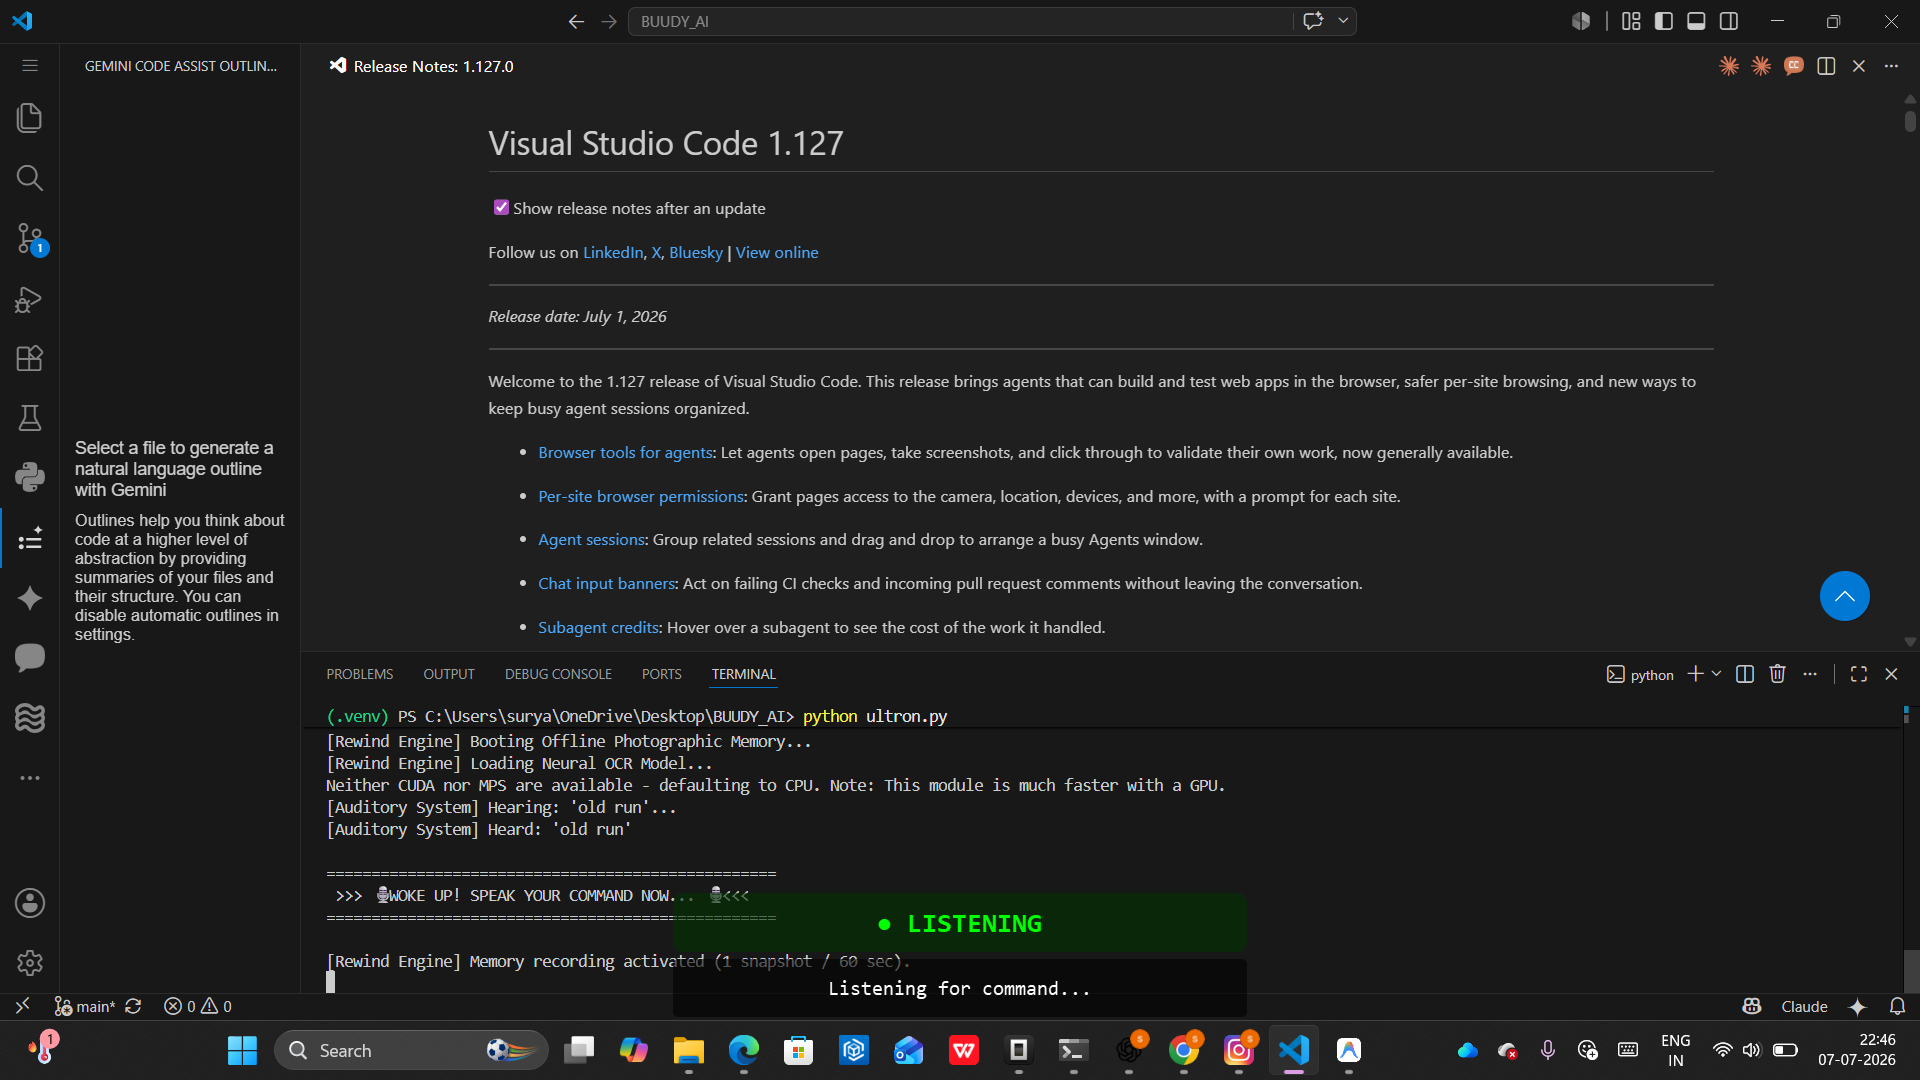
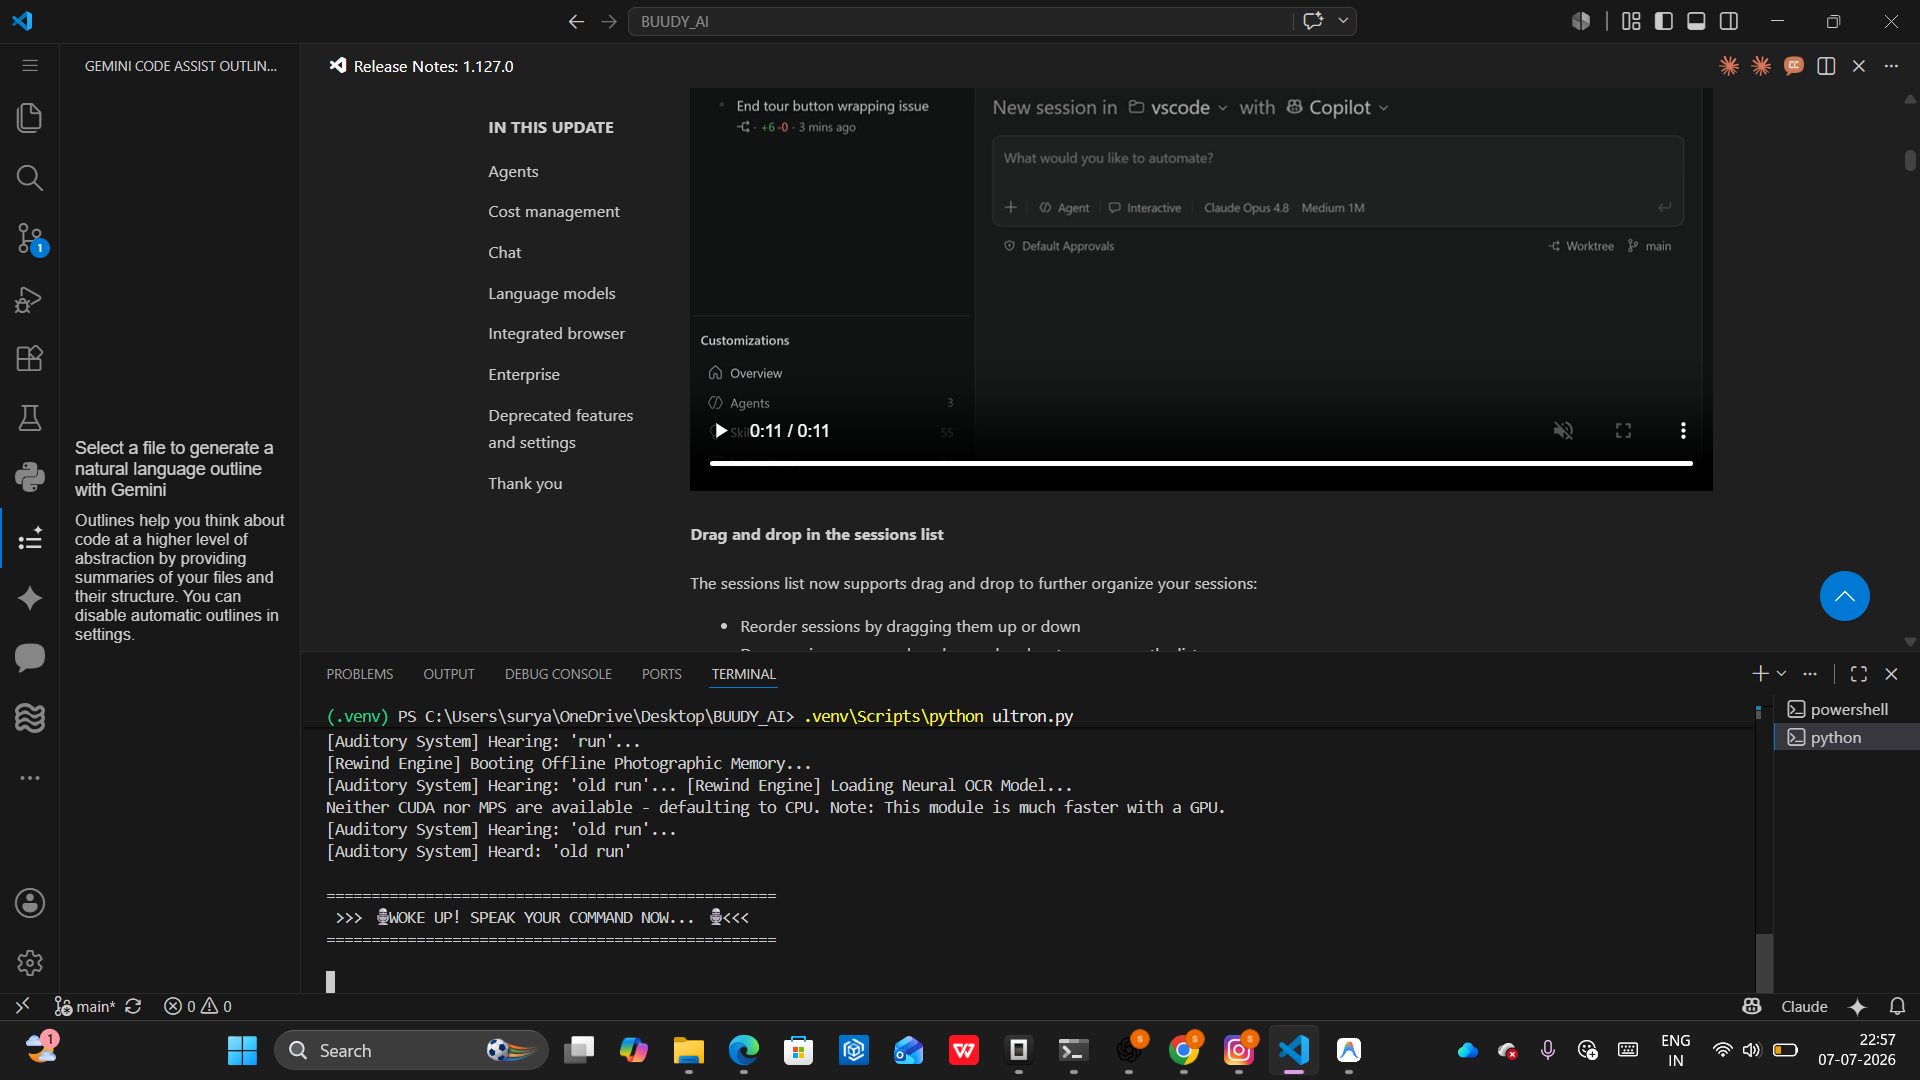
🎙️ Features: Add --no-wake direct listen mode, rename wake-word to Vision, support all phonetic approximations, and implement offline Vosk transcription fallback

diff --git a/ultron.py b/ultron.py
@@ -145,14 +145,159 @@ def speak(text):
 # ==================================================
 # 24/7 LISTEN (VOSK WAKE WORD + GROQ WHISPER)
 # ==================================================
-def listen():
+def transcribe_offline_vosk(wav_path: str) -> str:
+    """Transcribes a WAV file locally using the Vosk model (no API keys required)."""
+    try:
+        import wave
+        wf = wave.open(wav_path, "rb")
+        
+        # Ensure correct audio format
+        if wf.getnchannels() != 1 or wf.getsampwidth() != 2 or wf.getcomptype() != "NONE":
+            pass
+            
+        from vosk import KaldiRecognizer
+        rec = KaldiRecognizer(vosk_model, wf.getframerate())
+        
+        result_text = ""
+        while True:
+            data = wf.readframes(4000)
+            if len(data) == 0:
+                break
+            if rec.AcceptWaveform(data):
+                res = json.loads(rec.Result())
+                result_text += " " + res.get("text", "")
+                
+        res = json.loads(rec.FinalResult())
+        result_text += " " + res.get("text", "")
+        wf.close()
+        return result_text.strip()
+    except Exception as e:
+        print(f"[Auditory System] Offline Vosk transcription failed: {e}")
+        return ""
+
+def transcribe_audio(audio) -> str:
+    """Transcribes recorded audio using Groq Whisper, falling back to Google Gemini, and finally offline Vosk."""
+    print("[Transcribing via Groq Whisper...]")
+    with tempfile.NamedTemporaryFile(suffix=".wav", delete=False) as f:
+        f.write(audio.get_wav_data())
+        temp_audio_path = f.name
+        
+    headers = {
+        "Authorization": f"Bearer {GROQ_API_KEY.strip()}"
+    }
+    
+    response = None
+    try:
+        with open(temp_audio_path, "rb") as audio_file:
+            files = {
+                "file": ("audio.wav", audio_file, "audio/wav"),
+                "model": (None, "whisper-large-v3-turbo")
+            }
+            response = requests.post("https://api.groq.com/openai/v1/audio/transcriptions", headers=headers, files=files, timeout=10)
+    except Exception as e:
+        print(f"[Auditory System] Groq request connection error: {e}")
+        
+    use_gemini_fallback = (response is None or response.status_code != 200)
+    
+    if not use_gemini_fallback:
+        if os.path.exists(temp_audio_path):
+            os.remove(temp_audio_path)
+        result = response.json()
+        command = result.get("text", "").strip()
+        print(f"You: {command}")
+        if command:
+            send_hud_state("thinking", command)
+        return command
+    else:
+        status_code = response.status_code if response else "NO_RESPONSE"
+        error_text = response.text if response else "Timeout/Connection Failed"
+        print(f"[Auditory System] Groq Whisper failed (Status {status_code}: {error_text}). Switching to Google Gemini Fallback...")
+        
+        google_key = os.environ.get("GOOGLE_AI_KEY", "").strip()
+        use_offline_vosk = False
+        
+        if google_key:
+            try:
+                import google.generativeai as genai
+                genai.configure(api_key=google_key)
+                
+                print("[Auditory System] Uploading audio to Google...")
+                audio_file_upload = genai.upload_file(path=temp_audio_path)
+                
+                print("[Auditory System] Transcribing via Google Gemini Flash...")
+                model = genai.GenerativeModel("gemini-1.5-flash")
+                response_gemini = model.generate_content([
+                    "Please transcribe the following audio recording exactly as spoken. Do not add any commentary, notes, or explanations.",
+                    audio_file_upload
+                ])
+                command = response_gemini.text.strip()
+                
+                try:
+                    audio_file_upload.delete()
+                except Exception:
+                    pass
+                if os.path.exists(temp_audio_path):
+                    os.remove(temp_audio_path)
+                
+                print(f"You (Gemini): {command}")
+                if command:
+                    send_hud_state("thinking", command)
+                return command
+            except Exception as e:
+                print(f"[Auditory System] Google Gemini fallback failed: {e}")
+                use_offline_vosk = True
+        else:
+            print("[Auditory System] GOOGLE_AI_KEY not set. Switching to Offline Vosk fallback...")
+            use_offline_vosk = True
+            
+        if use_offline_vosk:
+            print("[Auditory System] Transcribing offline using local Vosk model...")
+            try:
+                command = transcribe_offline_vosk(temp_audio_path)
+                if os.path.exists(temp_audio_path):
+                    os.remove(temp_audio_path)
+                print(f"You (Offline Vosk): {command}")
+                if command:
+                    send_hud_state("thinking", command)
+                return command
+            except Exception as e:
+                print(f"[Auditory System] Offline transcription failed: {e}")
+                if os.path.exists(temp_audio_path):
+                    os.remove(temp_audio_path)
+                send_hud_state("standby", "")
+                return ""
+
+def listen_direct() -> str:
+    """Listens and transcribes audio directly without waiting for a wake word."""
+    # 2. Record High-Fidelity Audio
+    recognizer_sr = sr.Recognizer()
+    try:
+        profile = get_memory_instance().user_profile
+        threshold = profile.get("preferences", {}).get("mic_energy_threshold")
+        if threshold is not None:
+            recognizer_sr.energy_threshold = int(threshold)
+            print(f"[SYSTEM] Loaded trained mic sensitivity threshold: {threshold}")
+    except Exception:
+        pass
+    recognizer_sr.dynamic_energy_threshold = True
+    
+    with sr.Microphone() as source:
+        try:
+            audio = recognizer_sr.listen(source, timeout=5, phrase_time_limit=10)
+        except sr.WaitTimeoutError:
+            return ""
+            
+    return transcribe_audio(audio)
+
+def listen() -> str:
     global stop_speaking
     print("\n" + "="*50)
-    print(" >>> 🟢 ULTRON STANDBY: SAY 'ULTRON' TO WAKE ME UP... 🟢 <<<")
+    print(" >>> 🟢 VISION STANDBY: SAY 'VISION' (OR 'ULTRON') TO WAKE ME UP... 🟢 <<<")
     print("="*50 + "\n")
-    # Optimization: constrain vocabulary to only target keywords to boost sensitivity and accuracy.
-    # Include phonetic variants of 'Ultron' (e.g. ultra, ulton, alton, eltron) in case of accents or local pronunciations.
-    recognizer = vosk.KaldiRecognizer(vosk_model, 16000, '["ultron", "ultra", "ulton", "alton", "eltron", "all turn", "old run", "stop", "[unk]"]')
+    
+    # Vocabulary constraint including phonetic variants of 'Vision' and 'Ultron'
+    vocab = '["vision", "pigeon", "fission", "visual", "reason", "version", "region", "decision", "mission", "division", "ultron", "ultra", "ulton", "alton", "eltron", "all turn", "old run", "oldrun", "old train", "outrun", "alter", "stop", "[unk]"]'
+    recognizer = vosk.KaldiRecognizer(vosk_model, 16000, vocab)
     
     wake_word_detected = False
     
@@ -178,8 +323,12 @@ def listen():
                             stop_speaking = True
                             return ""
                     
-                    # Check for Wake Word (phonetically robust matching)
-                    if any(w in text for w in ["ultron", "ultra", "ulton", "alton", "eltron", "all turn", "old run"]):
+                    # Phonetically robust wake-word triggers for 'Vision' and 'Ultron'
+                    wake_words = [
+                        "vision", "pigeon", "fission", "visual", "reason", "version", "region", "decision", "mission", "division",
+                        "ultron", "ultra", "ulton", "alton", "eltron", "all turn", "old run", "oldrun", "old train", "outrun", "alter"
+                    ]
+                    if any(w in text for w in wake_words):
                         wake_word_detected = True
                         break
             else:
@@ -213,84 +362,7 @@ def listen():
             except sr.WaitTimeoutError:
                 return ""
         
-        # 3. Transcribe via Groq Whisper API (Lightning Fast, Perfect Accuracy)
-        print("[Transcribing via Groq Whisper...]")
-        with tempfile.NamedTemporaryFile(suffix=".wav", delete=False) as f:
-            f.write(audio.get_wav_data())
-            temp_audio_path = f.name
-            
-        headers = {
-            "Authorization": f"Bearer {GROQ_API_KEY.strip()}"
-        }
-        
-        response = None
-        try:
-            with open(temp_audio_path, "rb") as audio_file:
-                files = {
-                    "file": ("audio.wav", audio_file, "audio/wav"),
-                    "model": (None, "whisper-large-v3-turbo")
-                }
-                response = requests.post("https://api.groq.com/openai/v1/audio/transcriptions", headers=headers, files=files, timeout=10)
-        except Exception as e:
-            print(f"[Auditory System] Groq request connection error: {e}")
-            
-        use_gemini_fallback = (response is None or response.status_code != 200)
-        
-        if not use_gemini_fallback:
-            if os.path.exists(temp_audio_path):
-                os.remove(temp_audio_path)
-            result = response.json()
-            command = result.get("text", "").strip()
-            print(f"You: {command}")
-            if command:
-                send_hud_state("thinking", command)
-            return command
-        else:
-            status_code = response.status_code if response else "NO_RESPONSE"
-            error_text = response.text if response else "Timeout/Connection Failed"
-            print(f"[Auditory System] Groq Whisper failed (Status {status_code}: {error_text}). Switching to Google Gemini Fallback...")
-            
-            google_key = os.environ.get("GOOGLE_AI_KEY", "").strip()
-            if not google_key:
-                print("[Auditory System] Google Gemini fallback key (GOOGLE_AI_KEY) is missing. Unable to transcribe.")
-                if os.path.exists(temp_audio_path):
-                    os.remove(temp_audio_path)
-                send_hud_state("standby", "")
-                return ""
-            
-            try:
-                import google.generativeai as genai
-                genai.configure(api_key=google_key)
-                
-                print("[Auditory System] Uploading audio to Google...")
-                audio_file_upload = genai.upload_file(path=temp_audio_path)
-                
-                print("[Auditory System] Transcribing via Google Gemini Flash...")
-                model = genai.GenerativeModel("gemini-1.5-flash")
-                response_gemini = model.generate_content([
-                    "Please transcribe the following audio recording exactly as spoken. Do not add any commentary, notes, or explanations.",
-                    audio_file_upload
-                ])
-                command = response_gemini.text.strip()
-                
-                # Clean up
-                try:
-                    audio_file_upload.delete()
-                except Exception:
-                    pass
-                if os.path.exists(temp_audio_path):
-                    os.remove(temp_audio_path)
-                
-                print(f"You (Gemini): {command}")
-                if command:
-                    send_hud_state("thinking", command)
-                return command
-            except Exception as e:
-                print(f"[Auditory System] Google Gemini transcription fallback failed: {e}")
-                if os.path.exists(temp_audio_path):
-                    os.remove(temp_audio_path)
-                send_hud_state("standby", "")
-                return ""
+        return transcribe_audio(audio)
 
 # ==================================================
 # SKILL IMPORTS
@@ -1579,12 +1651,15 @@ def main():
     import argparse
     parser = argparse.ArgumentParser(description="Ultron AI Assistant")
     parser.add_argument("--text", action="store_true", help="Run in text-only CLI mode without voice inputs.")
+    parser.add_argument("--no-wake", action="store_true", help="Run in direct listening mode without waiting for a wake word.")
     args = parser.parse_args()
 
     print("=========================================")
     print("          PROJECT ULTRON ONLINE          ")
     if args.text:
         print("             (TEXT MODE)                 ")
+    elif args.no_wake:
+        print("         (DIRECT VOICE TEST MODE)        ")
     print("=========================================")
     
     # 0. Start Holographic HUD
@@ -1615,6 +1690,11 @@ def main():
     while True:
         if args.text:
             query = input("\n[TEXT COMMAND] Enter command (or 'exit'): ")
+        elif args.no_wake:
+            print("\n" + "="*50)
+            print(" >>> 🎙️ LISTENING DIRECTLY (NO WAKE WORD NEEDED)... SPEAK NOW! 🎙️ <<<")
+            print("="*50 + "\n")
+            query = listen_direct()
         else:
             query = listen()
             